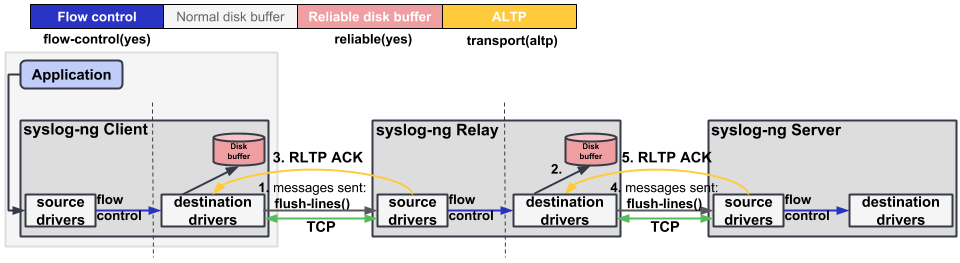
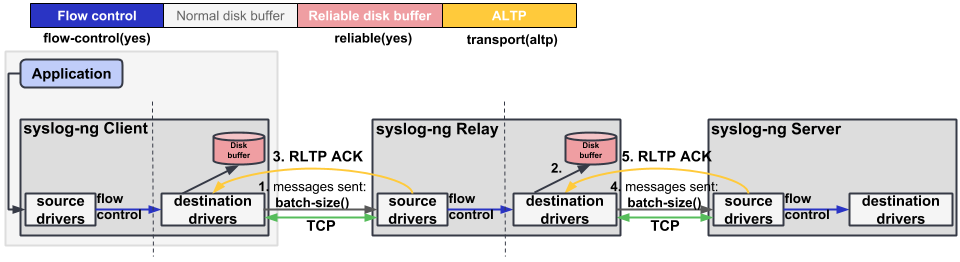
[pe7.0.10][admin] Added info about batch-size() (DOC-3734)

diff --git a/Content/Guides/syslog-ng-guide-admin/chapters/flow-control-reliable-disk-buffering-altp.htm b/Content/Guides/syslog-ng-guide-admin/chapters/flow-control-reliable-disk-buffering-altp.htm
@@ -26,12 +26,12 @@
             </tbody>
         </table>
         <ol>
-            <li>The sender sends messages in batches (set via <span class="Code">flush-lines()</span>).</li>
+            <li>The sender sends messages in batches (set via <span class="Code">batch-size()</span>).</li>
             <li>The relay writes messages to the disk buffer.</li>
             <li>
                 <p>Once messages have been written to the disk buffer, the relay returns an acknowledgement to the client.</p>
             </li>
-            <li>The relay sends messages to the server in batches (set via <span class="Code">flush-lines()</span>).</li>
+            <li>The relay sends messages to the server in batches (set via <span class="Code">batch-size()</span>).</li>
             <li>
                 <p>When the server has successfully received and processed the messages in the batch, it sends an acknowledgement of the processed messages to the relay.</p>
                 <p>It is only at this point that the relay removes log messages from the disk buffer because this is when logs are considered "delivered" to the server.</p>

diff --git a/Content/Guides/syslog-ng-guide-admin/chapters/procedure-rltp-concepts.htm b/Content/Guides/syslog-ng-guide-admin/chapters/procedure-rltp-concepts.htm
@@ -32,7 +32,7 @@
                     <p oldrole="para">If the sender and the receiver have communicated earlier using <MadCap:variable name="syslogngPEVariables.RLTPUppercase" />, the receiver indicates which was the last message received from the sender.</p>
                 </li>
                 <li oldrole="step">
-                    <p oldrole="para">The sender starts sending messages in batches. Batch size depends on the <span class="Code" oldrole="parameter">flush-lines()</span> parameter of the sender.</p>
+                    <p oldrole="para">The sender starts sending messages in batches. Batch size depends on the <span class="Code" oldrole="parameter">batch-size()</span> parameter of the sender.</p>
                     <MadCap:snippetBlock src="../../shared/chunk/para-option-destination-flush-lines-note.htm">
                     </MadCap:snippetBlock>
                 </li>

diff --git a/Content/Guides/shared/chunk/para-option-destination-flush-lines-note.htm b/Content/Guides/shared/chunk/para-option-destination-flush-lines-note.htm
@@ -3,6 +3,6 @@
     <head>
     </head>
     <body oldrole="p">
-        <p>For optimal performance when sending messages to a <MadCap:variable name="General.abbrev"></MadCap:variable> server, make sure that the <span class="Code" oldrole="parameter">flush-lines()</span> is smaller than the window size set using the <span class="Code" oldrole="parameter">log-iw-size()</span> option in the source of your server.</p>
+        <p>For optimal performance when sending messages to a <MadCap:variable name="General.abbrev"></MadCap:variable> server, make sure that the <span class="Code" oldrole="parameter">batch-size()</span> is smaller than the window size set using the <span class="Code" oldrole="parameter">log-iw-size()</span> option in the source of your server.</p>
     </body>
 </html>

diff --git a/Content/Guides/syslog-ng-guide-admin/chapters/rltp-options.htm b/Content/Guides/syslog-ng-guide-admin/chapters/rltp-options.htm
@@ -12,6 +12,7 @@
         </MadCap:snippetBlock>
         <MadCap:snippetBlock src="simplesect-allow.htm">
         </MadCap:snippetBlock>
+        <MadCap:snippetBlock src="../batch-size.flsnp" />
         <MadCap:snippetBlock src="simplesect-message.htm">
         </MadCap:snippetBlock>
         <MadCap:snippetBlock src="simplesect-response.htm">
